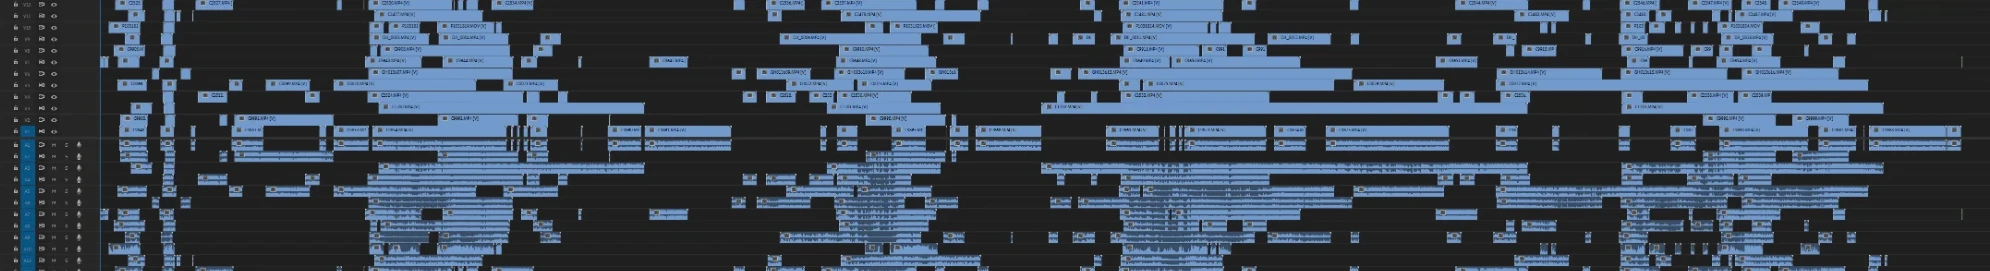
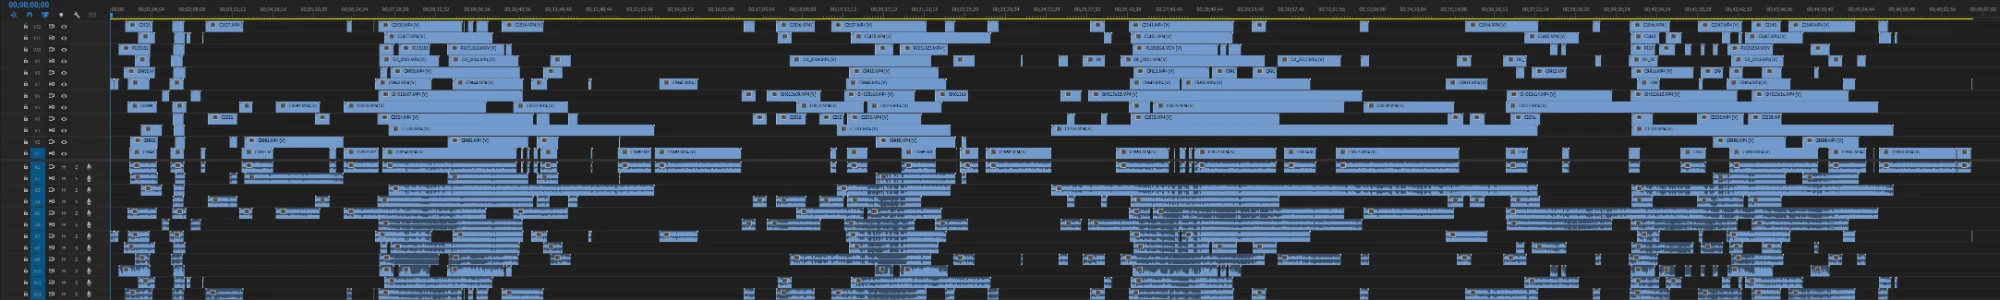
show both timelines whole, top aligned, with no cropping

diff --git a/styles.css b/styles.css
@@ -635,13 +635,14 @@ body {
   padding-inline: var(--pad);
 }
 
-/* Both timelines are cropped to exactly 1990x271, aligned on the V1/A1 track
-   boundary, so matching the frame to that ratio means object-fit: contain
-   lands them pixel on pixel: no letterboxing, no drift between the two. */
+/* Both shots go in uncropped, so the frame takes the taller one's ratio and
+   they hang from the top edge. Both have their ruler on rows 18-19 and the
+   same 11px track pitch, so top-aligning puts the grids in register without
+   cutting anything; the shorter shot just stops 29px above the bottom. */
 .stage-frame {
   position: relative;
   width: 100%;
-  aspect-ratio: 1990 / 271;
+  aspect-ratio: 2000 / 329;
   background: var(--panel);
   /* An inset outline, not a border: on a strip this wide a 1px border costs
      2px of height, which contain repays as ~16px of letterboxing either side. */
@@ -656,7 +657,11 @@ body {
   inset: 0;
   width: 100%;
   height: 100%;
-  object-fit: contain;  /* never crop a timeline */
+  object-fit: contain;       /* never crop a timeline */
+  object-position: top;
+  /* The shorter shot would otherwise let the one underneath show through
+     along the bottom; its own empty-track grey carries on instead. */
+  background: #1f1f1f;
 }
 
 /* --e is the eased progress main.js writes on the section, 0 → 1. The messy
@@ -698,20 +703,6 @@ body {
   backdrop-filter: blur(10px);
   border-left: 2px solid;
   border-image: linear-gradient(var(--brand-a), var(--brand-b)) 1;
-}
-
-/* A 7.3:1 strip is only ~46px tall on a phone, which makes the timeline
-   unreadable. Go taller and crop from the left instead of shrinking: you
-   lose the tail of the sequence but you can actually see the cuts. */
-@media (max-width: 760px) {
-  .stage-frame {
-    aspect-ratio: 2.4;
-  }
-
-  .stage-img {
-    object-fit: cover;
-    object-position: left center;
-  }
 }
 
 /* Photo credit, tucked right under the frame the way a caption sits under a

diff --git a/index.html b/index.html
@@ -84,8 +84,8 @@
           <img class="stage-img messy" src="images/messytimeline1.webp" alt="A messy, disorganised timeline"
             decoding="async">
         </div>
-        <p class="stage-note">Real Premiere Pro sequences from past edits. Screenshots are cropped for framing,
-          not retouched.</p>
+        <p class="stage-note">Real Premiere Pro sequences from past edits
+        </p>
         <div class="clip-text over">
           <p class="slug"><b>V1</b> Clip 02</p>
           <h2>Clean Editing</h2>
